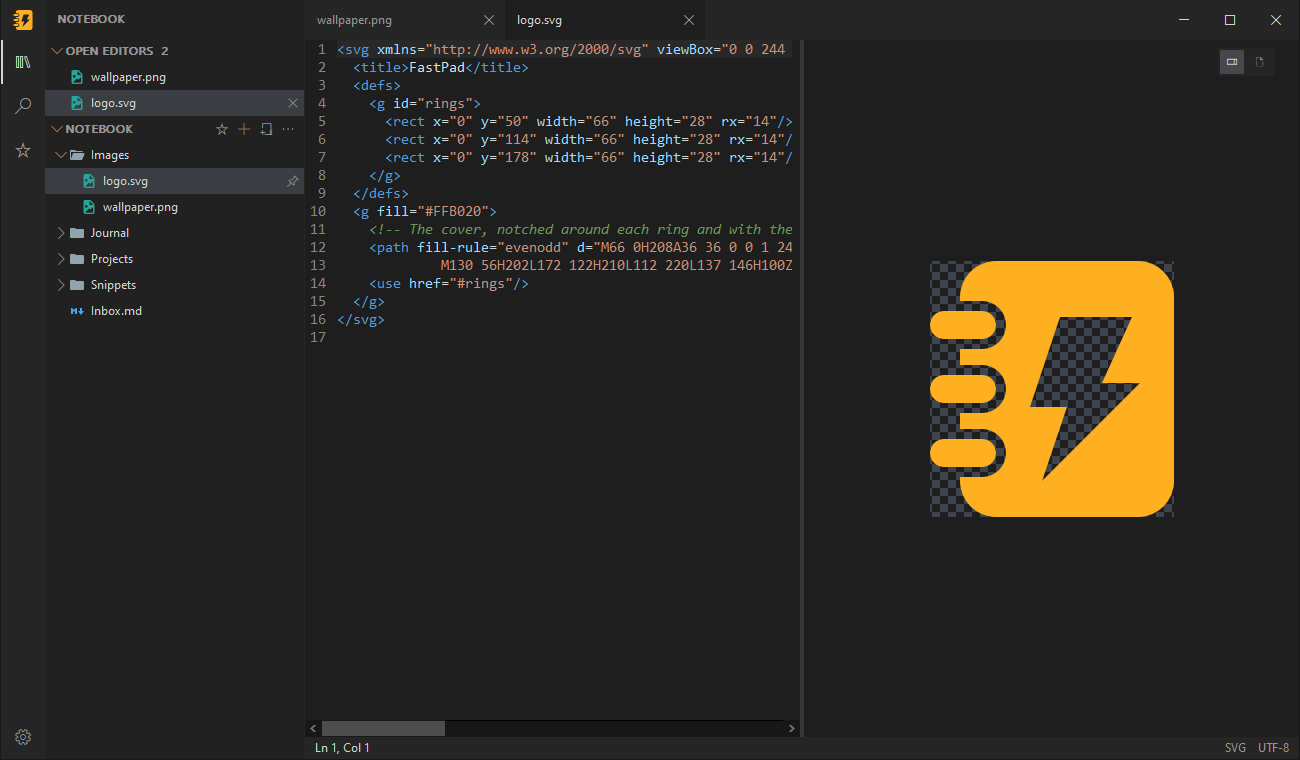
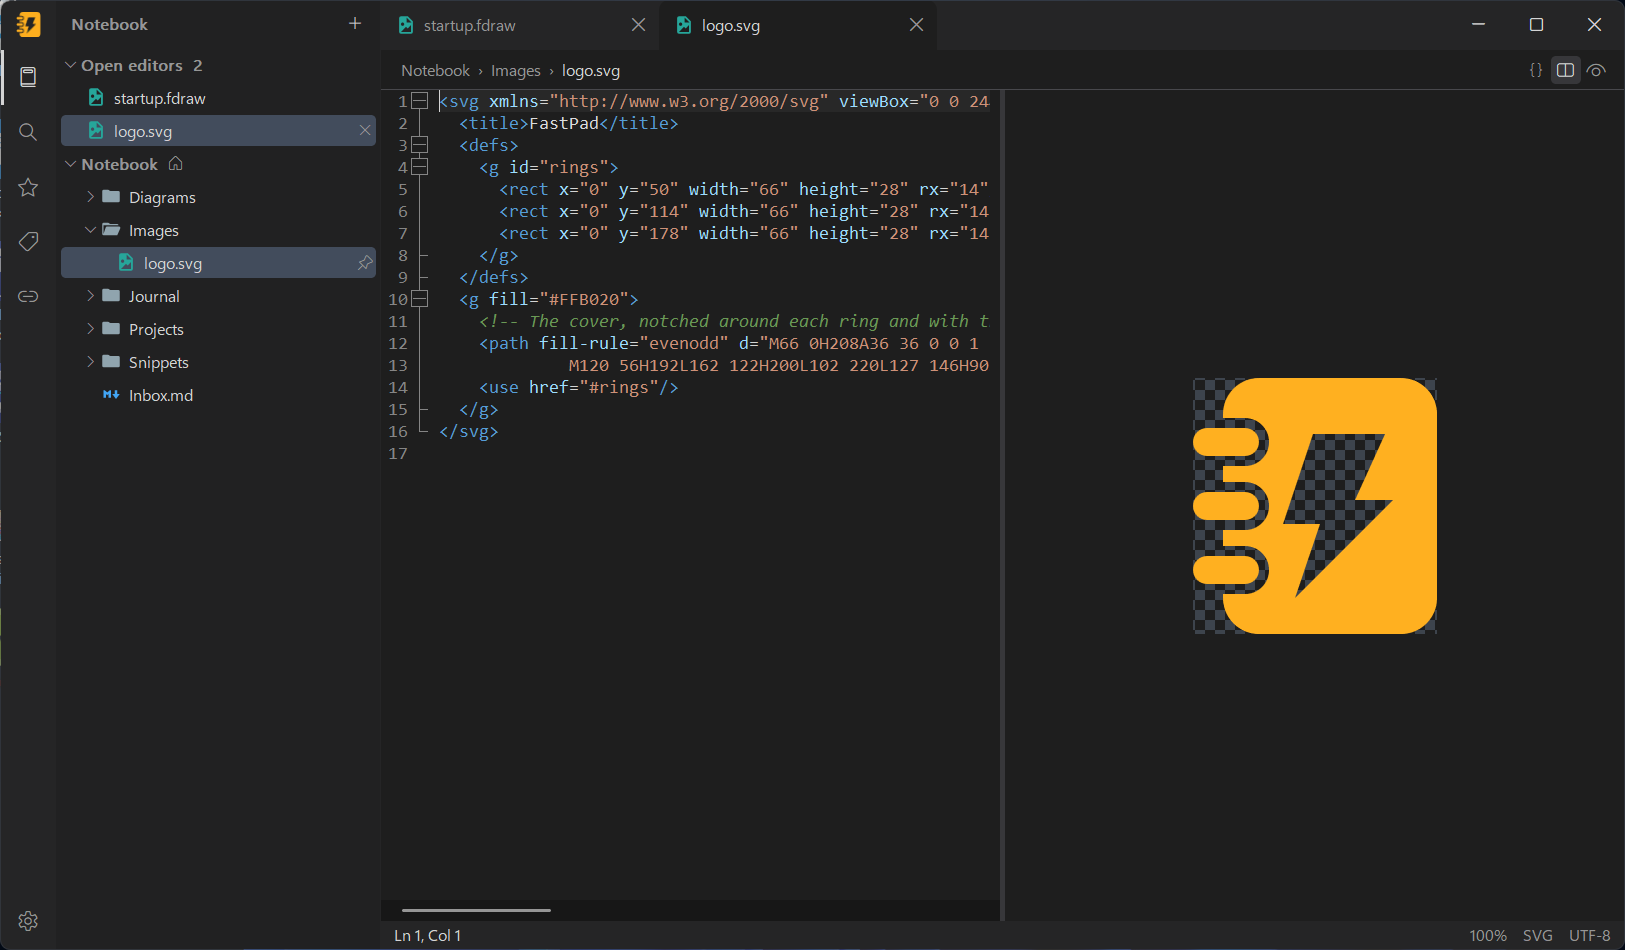
docs: reshoot README screenshots from the current app; add FastDraw, images and multi-select to the README and feature guide

diff --git a/docs/features.md b/docs/features.md
@@ -82,7 +82,7 @@ Files larger than 10 MB pause live updates; click the bar at the top of the prev
 
 ## Notes and notebooks
 
-<img src="images/notebook.png" alt="The notebook sidebar with folders and notes, and a note open in the editor" width="800">
+<img src="images/notebook.png" alt="Two notebooks in the sidebar, and a note with front matter and a Mermaid diagram open in Live view" width="800">
 
 Open any folder and it becomes a notebook: a tree in the sidebar, folders as they are on disk,
 pinned notes first. Notes are plain files, so nothing is locked in. **File → New notebook…** names
@@ -112,6 +112,9 @@ skipped with a notice but stays remembered until its drive returns.
 
 - **Write fast.** New notes are named inline and save themselves once they're in the notebook.
   Create, rename, move (drag and drop) and delete notes and folders right in the tree.
+- **Work on several at once.** `Ctrl`+click or `Shift`+click notes and folders of one notebook (or
+  `Shift`+arrows, `Ctrl+A`), then drag the group, press `Delete`, or use **Move to notebook…** on all
+  of it with one confirmation.
 - **Find anything.** Search and replace across every note, with case, whole-word and regex
   options, and jump to any note by typing part of its name. Nothing is indexed; results stream in.
 - **Open Editors** lists every open tab above the tree. Drag files in from Explorer or from Open
@@ -263,7 +266,7 @@ FastPad window you already have open, not in a new window.
 
 ## Split editors
 
-<img src="images/split-editors.png" alt="Four editor groups in a 2x2 grid showing Rust, Markdown, Python and JSON" width="800">
+<img src="images/split-editors.png" alt="Four editor groups in a 2x2 grid showing Rust, a FastDraw diagram, Python and JSON" width="800">
 
 Put files side by side in any grid of rows and columns. Drag a tab onto another group to move it,
 or onto an editor's edge to split it. Each group has its own tabs, and the layout comes back with
@@ -271,7 +274,7 @@ your session.
 
 ## Images next to your notes
 
-<img src="images/image-preview.png" alt="An SVG open as text with its rendered preview beside it, and images in the notebook tree" width="800">
+<img src="images/image-preview.png" alt="An SVG open as text with its rendered preview beside it, and the notebook tree" width="800">
 
 PNG, JPEG, GIF, WebP and more open in an image tab you can zoom and pan. SVGs open as text, with
 their rendered preview beside the source. The notebook lists images next to your notes.
@@ -283,6 +286,8 @@ their rendered preview beside the source. The notebook lists images next to your
   and the status bar act on the preview, and in Split on whichever side has the focus.
 
 ## FastDraw diagrams
+
+<img src="images/fastdraw.png" alt="A FastDraw diagram in Split view: its text on the left, the drawing on the right" width="800">
 
 A `.fdraw` file is a diagram written as text. It opens as the **FastDraw** language with the same
 Source / Split / Preview control as Markdown.
@@ -320,7 +325,7 @@ bottom of the sidebar) lists every setting, and changes apply as you make them.
 
 ## Themes that match your desk
 
-<img src="images/themes.png" alt="FastPad in light, dark and Catppuccin Mocha themes" width="800">
+<img src="images/themes.png" alt="FastPad in the Light, Dark, Catppuccin Mocha and Paper themes" width="800">
 
 Light, dark, or **System** to follow Windows as it switches. Plus all four
 [Catppuccin](https://catppuccin.com/) flavors (Latte, Frappé, Macchiato, Mocha), or plain

diff --git a/README.md b/README.md
@@ -48,12 +48,12 @@ Also available via **Scoop**, an **installer**, or a **portable ZIP** from the
 <td width="50%" valign="top">
 <img src="docs/images/markdown-preview.png" alt="Markdown source and rendered preview side by side"><br>
 <b>Markdown, live</b><br>
-Source, split, preview or a live view that renders as you type. Mermaid diagrams, tables and task lists included.
+Source, split, preview or a live view that renders as you type. Mermaid diagrams, tables, task lists and front matter as a Properties panel.
 </td>
 <td width="50%" valign="top">
-<img src="docs/images/notebook.png" alt="The notebook sidebar with a note open"><br>
+<img src="docs/images/notebook.png" alt="Two notebooks in the sidebar and a note open in Live view"><br>
 <b>Notes and notebooks</b><br>
-Any folder becomes a notebook. Plain files, <code>[[wikilinks]]</code>, <code>#tags</code>, backlinks and daily notes.
+Any folder becomes a notebook, and several open side by side. Plain files, <code>[[wikilinks]]</code>, <code>#tags</code>, backlinks and daily notes.
 </td>
 </tr>
 <tr>
@@ -75,16 +75,28 @@ Every command and setting, a few keystrokes away.
 Validate and format JSON; highlighting for Rust, Python, C#, YAML, PowerShell and more.
 </td>
 <td width="50%" valign="top">
-<img src="docs/images/themes.png" alt="Light, dark and Catppuccin themes"><br>
+<img src="docs/images/themes.png" alt="Light, Dark, Catppuccin Mocha and Paper themes"><br>
 <b>Themes</b><br>
 Light, dark, system, Catppuccin and Paper/Lamp, with day/night switching.
+</td>
+</tr>
+<tr>
+<td width="50%" valign="top">
+<img src="docs/images/fastdraw.png" alt="A FastDraw diagram's text beside its drawing"><br>
+<b>Diagrams as text</b><br>
+<code>.fdraw</code> files draw as you type, offline, and show up inside your notes.
+</td>
+<td width="50%" valign="top">
+<img src="docs/images/image-preview.png" alt="An SVG's source beside its rendered preview"><br>
+<b>Images and SVG</b><br>
+Zoom and pan pictures; SVGs open as text with the drawing beside them.
 </td>
 </tr>
 </table>
 
 **And also:** quick capture from anywhere (`Ctrl+Alt+N`) · paste screenshots straight into notes ·
-picks up changes made by other programs or AI agents · session restore · image and SVG preview ·
-encodings preserved · safe atomic saves.
+select many notes and move them in one go · picks up changes made by other programs or AI agents ·
+session restore · read-only mode · encodings preserved · safe atomic saves.
 
 → **[Read the full feature guide](docs/features.md)**
 
